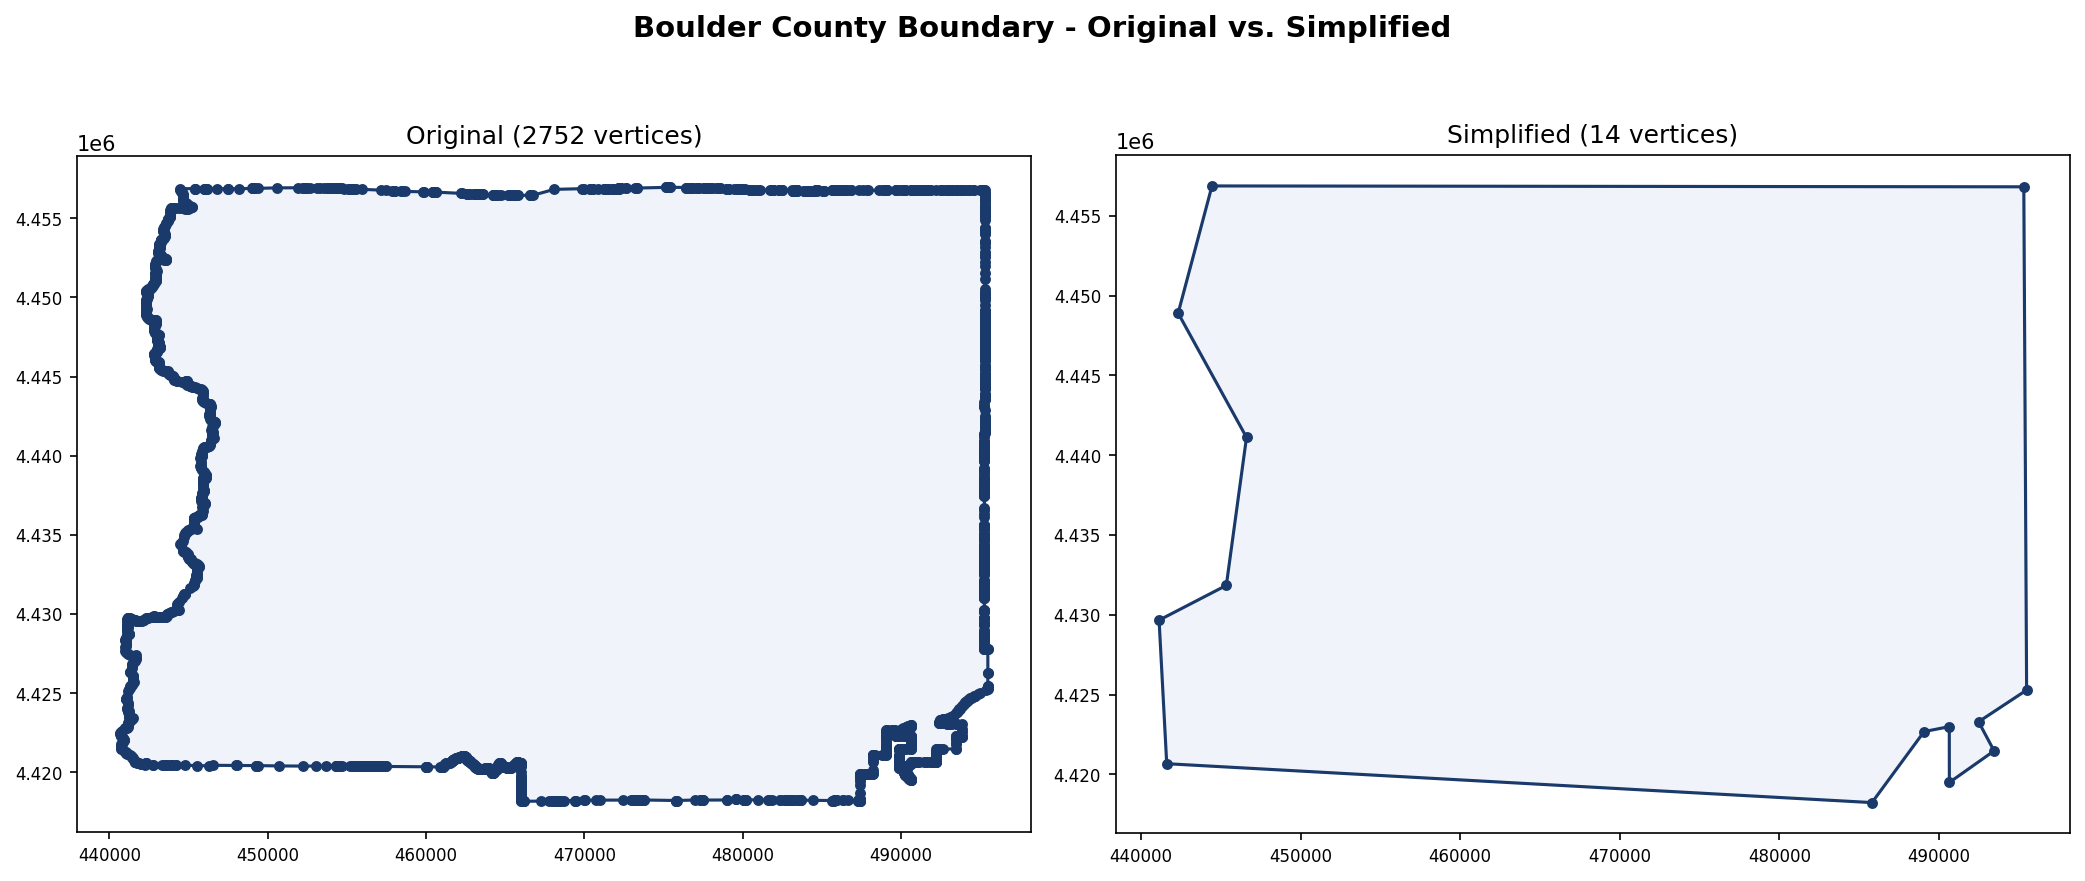
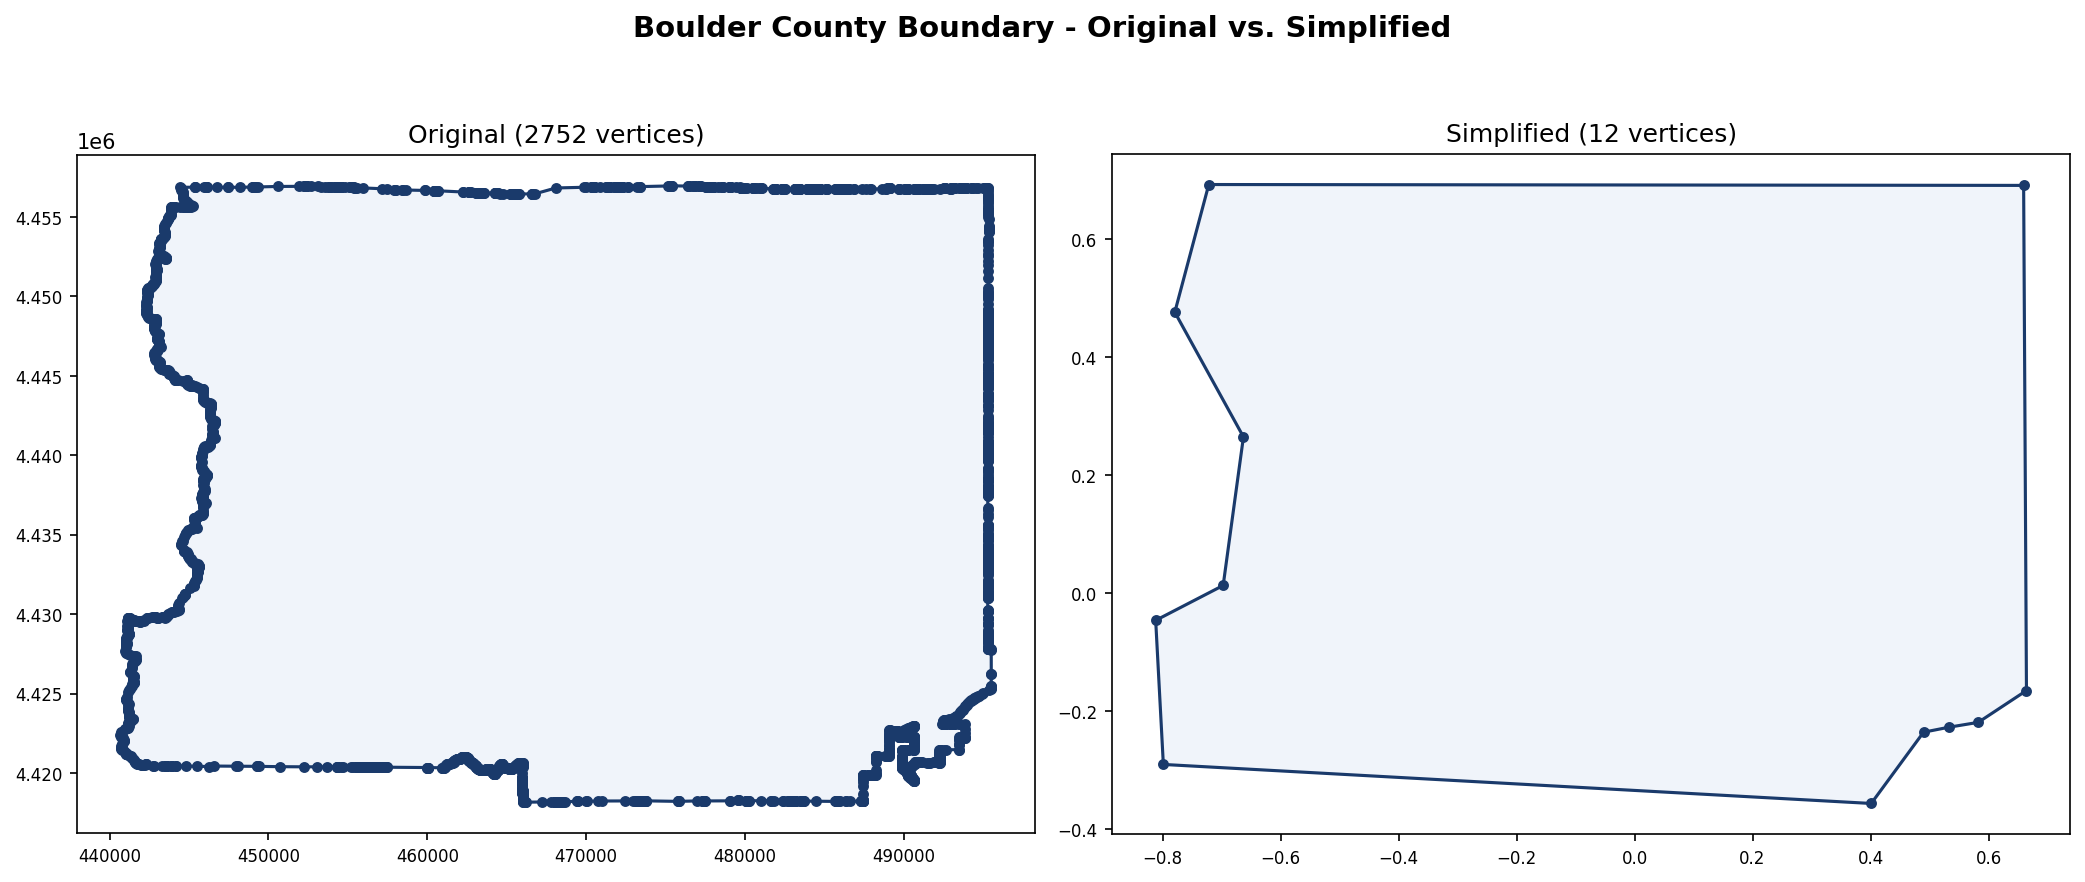
fix: remove Alex from report, fix 6.4% wording, regenerate fig1 with 12 vertices
- Remove Alexander Ingalls from title page authors
- Section 4.3: "6.4% leading-order approximation error" →
  "leading-order term of size ≈6.4%" (avoids implying a rigorous bound)
- fig:urban caption: same phrasing update for consistency
- Regenerate fig1_polygon_comparison.png: right panel now correctly
  titled "Simplified (12 vertices)" matching the SC computation domain
  (was showing 14-vertex Douglas-Peucker intermediate before angle filter)

diff --git a/report_draft.tex b/report_draft.tex
@@ -53,9 +53,6 @@
     University of Colorado Boulder\\[1em]
     \large Sophia Arany\\
     \small Dept.\ of Applied Mathematics,
-    University of Colorado Boulder\\[1em]
-    \large Alexander Ingalls\\
-    \small Dept.\ of Aerospace Engineering,
     University of Colorado Boulder\par}
   \vspace{2.5cm}
   {\normalsize APPM 4360, Complex Variables and Applications,
@@ -803,8 +800,8 @@ is mapped to $\HH$ via $f^{-1}$; its pre-image is enclosed by a minimum
 enclosing circle (Welzl's algorithm~\citep{Welzl91}) of radius $a$ centred at
 $\zeta_0 \in \HH$. The urban-obstacle potential~\eqref{eq:urban} then applies,
 with achieved separation ratio $\Imag(\zeta_0)/a \approx 3.96$ for the
-Boulder County run, giving an $O\bigl((a/\Imag\,\zeta_0)^2\bigr) \approx 6.4\%$
-leading-order approximation error.
+Boulder County run, giving a leading-order term of size
+$O\bigl((a/\Imag\,\zeta_0)^2\bigr) \approx 6.4\%$.
 
 Figure~\ref{fig:urban} shows the result. The Milne-Thomson dipole at
 $\zeta_0$ enforces no-penetration on the enclosing circle; the image term
@@ -817,7 +814,7 @@ visibly around the purple obstacle, with local acceleration on its flanks.
   \caption{\textbf{Doubly-connected flow with urban-core obstacle via the
   Milne-Thomson circle theorem~\eqref{eq:urban}.} Downtown Boulder commercial
   core shown in purple. Separation ratio $\Imag(\zeta_0)/a \approx 3.96$;
-  order-of-magnitude approximation error $\sim 6.4\%$. Streamlines deflect
+  leading-order term of size $\approx 6.4\%$. Streamlines deflect
   around the obstacle, with a local acceleration on its flanks. Same grid
   resolution and contour counts as Figure~\ref{fig:uniform}.}
   \label{fig:urban}
